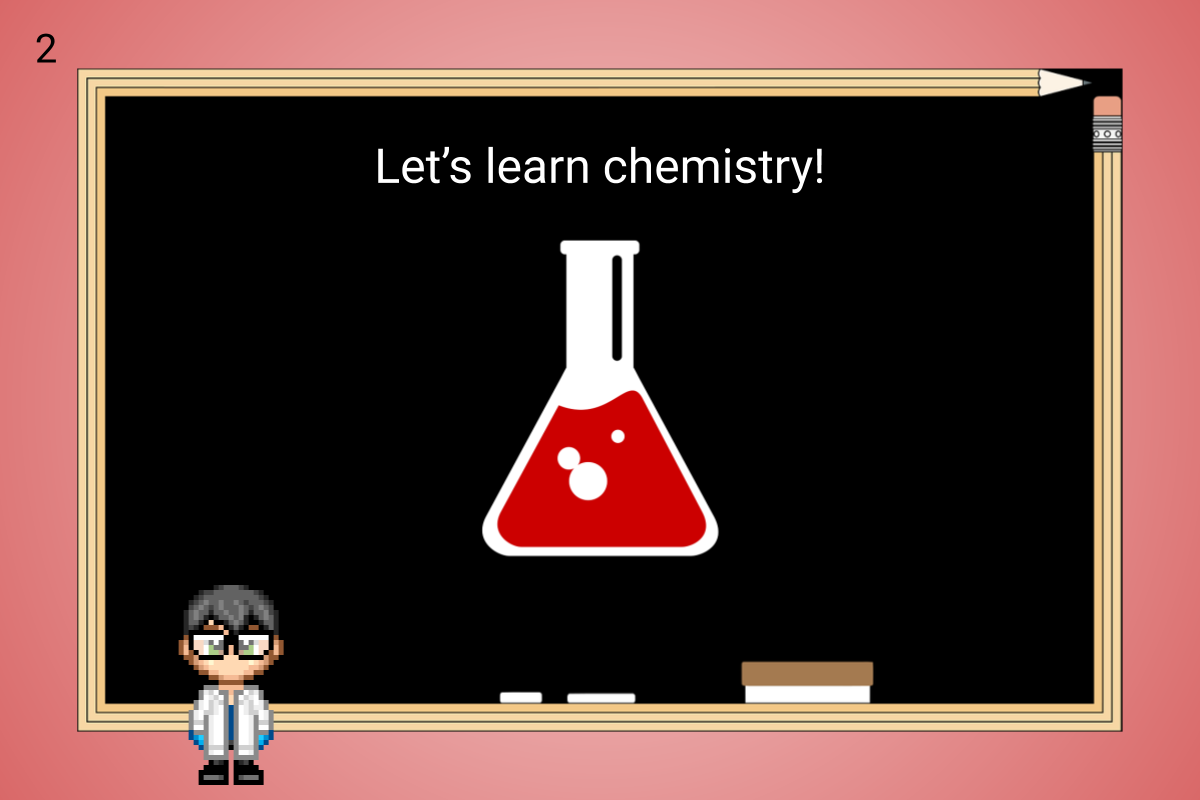
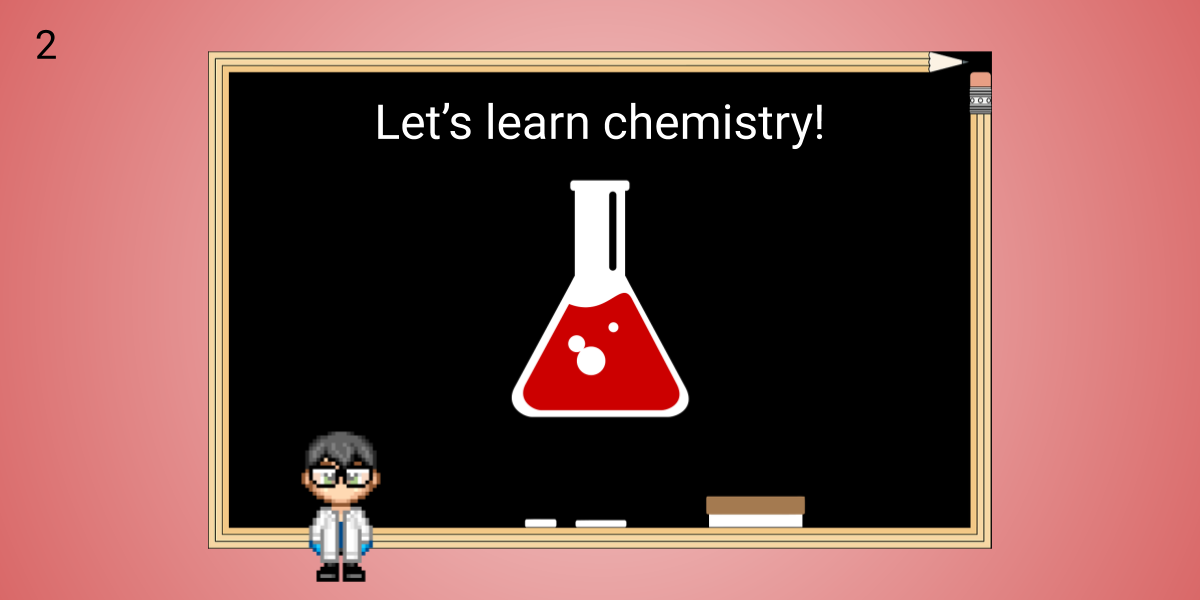
Fix styling of slideshow container

diff --git a/src/styles/index.css b/src/styles/index.css
@@ -65,12 +65,13 @@ table {
 body {
     background: rgb(174,238,180);
     background: radial-gradient(circle, rgba(174,238,180,1) 0%, rgba(148,187,233,1) 100%);
+    height: 100vh;
     color: darkslategray;
 }
 
 #navbar {
     margin: 10px;
-    width: 100%;
+    width: calc(100% - 20px);
     height: 20px;
     box-sizing: content-box;
     display: flex;
@@ -91,7 +92,7 @@ body {
 }
 
 #nav-links {
-    width: 300px;
+    width: 400px;
     height: 100%;
     display: flex;
     justify-content: space-around;
@@ -99,13 +100,13 @@ body {
 }
 
 #nav-links h1 {
-    font-size: 14px;
+    font-size: 18px;
 }
 
 #nav-links a {
-    width: 14px;
-    height: 14px;
-    font-size: 14px;
+    width: 20px;
+    height: 20px;
+    font-size: 20px;
     text-decoration: none;
     color: darkslategray;
 }
@@ -115,7 +116,8 @@ body {
 }
 
 #game-container {
-    margin: 0 10px 10px 10px;
+    margin-left: auto;
+    margin-right: auto;
     width: 1200px;
     height: 600px;
     border: 1px solid;
@@ -184,7 +186,6 @@ body {
 
 .slideshow-container {
   width: inherit;
-  position: relative;
   margin: auto;
 }
 
@@ -193,27 +194,33 @@ body {
 }
 
 .about-slide img {
-    width: 100%;
-    height: 560px;
+    width: 1200px;
+    height: 575px;
+}
+
+.slideshow-navigation {
+    margin-top: -5px;
+    height: 30px;
+    text-align:center;
+    vertical-align: middle;
+    background: black;
+    border: none;
 }
 
 .prev, .next {
-  cursor: pointer;
-  position: absolute;
-  top: 50%;
-  width: auto;
-  margin-top: -22px;
-  padding: 16px;
-  color: white;
-  font-weight: bold;
-  font-size: 18px;
-  transition: 0.6s ease;
-  border-radius: 0 3px 3px 0;
-  user-select: none;
+    cursor: pointer;
+    width: 30px;
+    height: 30px;
+    color: beige;
+    font-weight: bold;
+    font-size: 30px;
+    transition: 0.6s ease;
+    border-radius: 0 3px 3px 0;
+    user-select: none;
 }
 
 .next {
-  right: 0;
+  right: 50%;
   border-radius: 3px 0 0 3px;
 }
 
@@ -222,14 +229,14 @@ body {
   height: 15px;
   width: 15px;
   margin: 0 2px;
-  background-color: #bbb;
+  background-color: white;
   border-radius: 50%;
   display: inline-block;
   transition: background-color 0.6s ease;
 }
 
 .active, .dot:hover {
-  background-color: #717171;
+  background-color: red;
 }
 
 .fade {

diff --git a/index.html b/index.html
@@ -39,21 +39,21 @@
 
     <div id="game-container">
       <div id="about" className="slideshow-container">
-        <div class="about-slide fade">
+        <div class="about-slide">
           <img src="./src/assets/images/aboutSlideshow/elementalAttackIntro.png">
         </div>
 
-        <div class="about-slide fade">
+        <div class="about-slide">
           <img src="./src/assets/images/aboutSlideshow/elementalAttackStory.png">
         </div>
 
-        <a class="prev" onclick="plusSlides(-1)">&#10094;</a>
-        <a class="next" onclick="plusSlides(1)">&#10095;</a>
-
-        <div style="text-align:center">
+        
+        <div class="slideshow-navigation">
+          <a class="prev" onclick="plusSlides(-1)">&#10094;</a>
           <span class="dot" onclick="currentSlide(1)"></span>
           <span class="dot" onclick="currentSlide(2)"></span>
           <span class="dot" onclick="currentSlide(3)"></span>
+          <a class="next" onclick="plusSlides(1)">&#10095;</a>
         </div>
       </div>
     </div>
